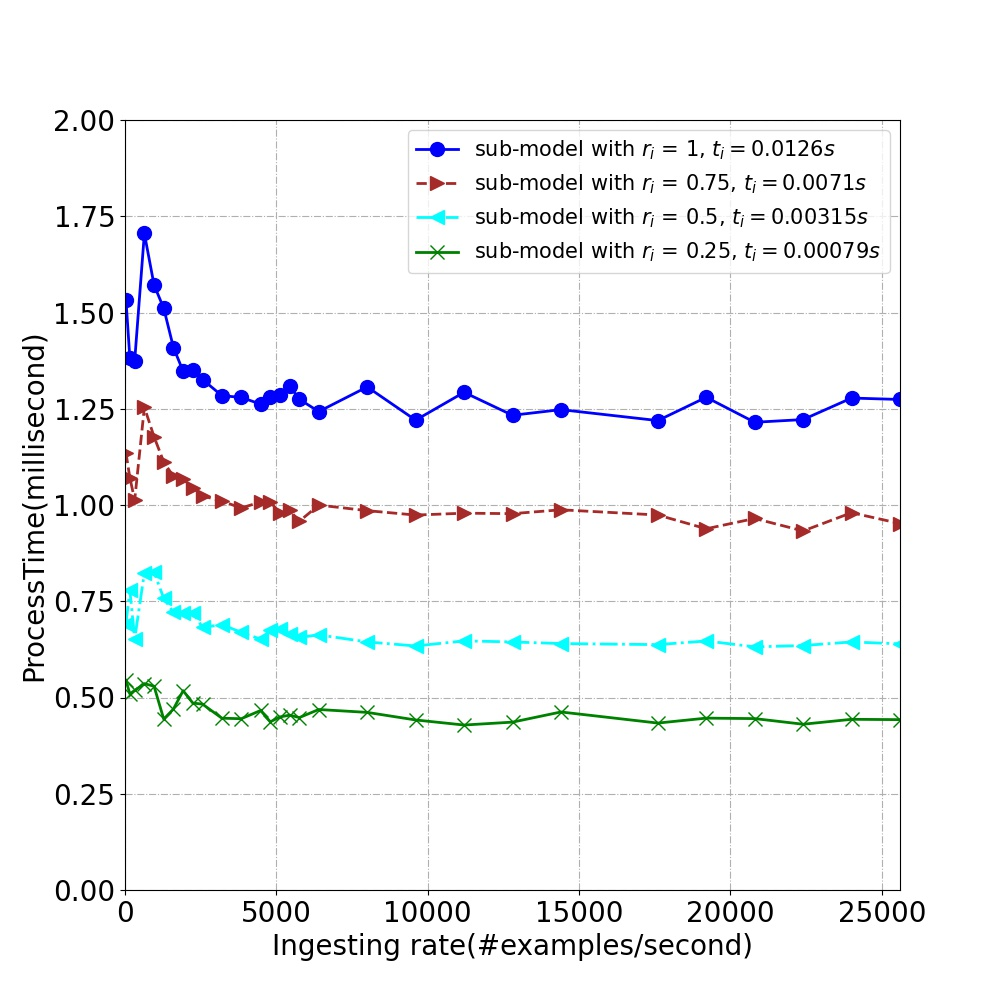
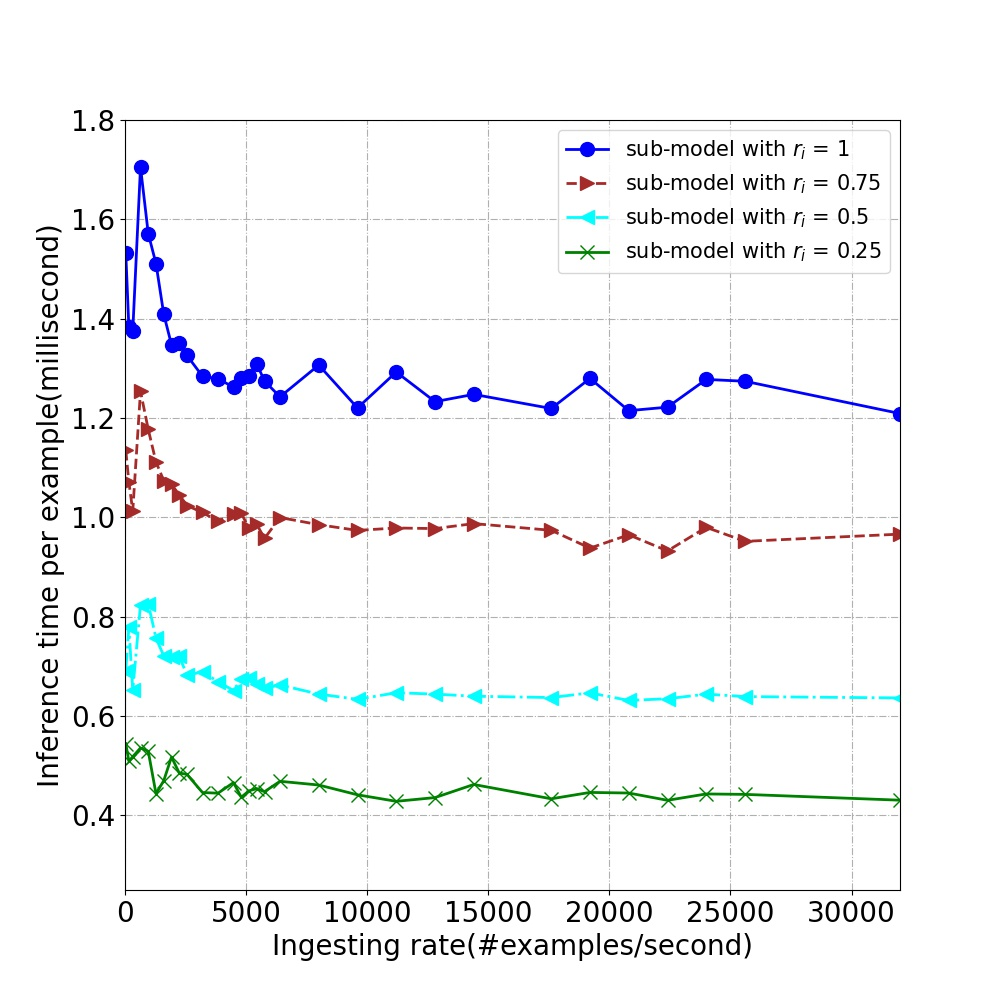
update col num

diff --git a/singa_easy/modules/mod_modelslicing/experiments/real_experiments/batchsize32_warmup/throughput_plot.py b/singa_easy/modules/mod_modelslicing/experiments/real_experiments/batchsize32_warmup/throughput_plot.py
@@ -1,9 +1,32 @@
-
-
-
+import random
 
 import matplotlib.pyplot as plt
 import numpy
+
+a = [1836.3079051506695, 1962.9089053282164, 1929.1277242268486, 1865.6451954263757, 1889.5975961861864,
+     2253.289056489142, 2127.1511393981114, 1931.6942465008278, 2059.462815456193, 2071.316841274074,
+     2241.006290635519, 2247.7630581564845, 2144.7499345363544, 2289.131959904238, 2224.434865066351,
+     2201.848473423833, 2232.70768279551, 2133.072624705612, 2167.6672935778574, 2264.275688170245,
+     2333.684488955261, 2293.424250948452, 2162.660721892865, 2306.332037993175, 2240.028933799633,
+     2246.2158555465144, 2322.4964900531186, 2255.5622859819355, 2259.9303076014894, 2321.2994099394336]
+b = [1445.9433825262615, 1284.6697085260785, 1533.4118854443375, 1213.9791096617307, 1210.7444482641636,
+     1320.5974070161312, 1386.553700460709, 1389.9838277791034, 1387.5661055279593, 1465.4537878707397,
+     1451.3130439734907, 1493.6634196280754, 1535.1549847755223, 1480.7069410017439, 1477.1197700353898,
+     1503.4791075969417, 1524.375786024539, 1509.0291880511877, 1551.8463361750817, 1577.706750904049,
+     1545.4427242402141, 1552.0039787885432, 1562.2637118262007, 1568.9310188763282, 1545.9267774841815,
+     1583.410716250229, 1574.791497162114, 1552.0990787287742, 1564.1273764910234, 1570.781902866197]
+c = [880.8678923087892, 933.6016809577615, 987.0748399898271, 797.5433414326412, 849.4834733220113,
+     899.6670416812997, 931.0417978411292, 937.6400711763063, 956.5925621638455, 976.7533568987499,
+     990.1121644661914, 1007.8173015409924, 992.2827579112727, 991.7698913691188, 1022.2715953452779,
+     1014.1038291456236, 1044.1256767843006, 1000.2139875635938, 1014.8825869643399, 1026.8363072048994,
+     1021.71904919371, 1022.9913952797449, 1012.5949577033209, 1026.6687747914898, 1065.8106918480396,
+     1036.3054170532707, 1072.269008082896, 1020.4068474632313, 1050.613453973618, 1034.795324812775]
+d = [652.5668608900327, 723.381195311305, 727.3728185252764, 586.3808688862862, 636.4126689846014,
+     661.8259209723692, 709.6993253544714, 742.0757436650908, 739.7638376353175, 754.1716642482755,
+     778.7620197152276, 781.6133029989561, 792.3596014105433, 780.290808002965, 778.2873606432582,
+     763.8202549455742, 784.5965844242094, 804.7131387530294, 765.2875261306747, 819.4191468756866,
+     773.5819920934922, 811.0019414343503, 801.4734417636259, 820.1707924206627, 781.3858588381479,
+     823.1135401337285, 818.3782593454359, 782.5908986499026, 784.8776116991418, 827.0613001214816]
 
 
 def drawBasic(tlist, x, slicerate):
@@ -12,30 +35,7 @@ def drawBasic(tlist, x, slicerate):
      label = []
      pots = []
 
-     a = [1836.3079051506695, 1962.9089053282164, 1929.1277242268486, 1865.6451954263757, 1889.5975961861864,
-          2253.289056489142, 2127.1511393981114, 1931.6942465008278, 2059.462815456193, 2071.316841274074,
-          2241.006290635519, 2247.7630581564845, 2144.7499345363544, 2289.131959904238, 2224.434865066351,
-          2201.848473423833, 2232.70768279551, 2133.072624705612, 2167.6672935778574, 2264.275688170245,
-          2333.684488955261, 2293.424250948452, 2162.660721892865, 2306.332037993175, 2240.028933799633,
-          2246.2158555465144, 2322.4964900531186, 2255.5622859819355, 2259.9303076014894, 2321.2994099394336]
-     b = [1445.9433825262615, 1284.6697085260785, 1533.4118854443375, 1213.9791096617307, 1210.7444482641636,
-          1320.5974070161312, 1386.553700460709, 1389.9838277791034, 1387.5661055279593, 1465.4537878707397,
-          1451.3130439734907, 1493.6634196280754, 1535.1549847755223, 1480.7069410017439, 1477.1197700353898,
-          1503.4791075969417, 1524.375786024539, 1509.0291880511877, 1551.8463361750817, 1577.706750904049,
-          1545.4427242402141, 1552.0039787885432, 1562.2637118262007, 1568.9310188763282, 1545.9267774841815,
-          1583.410716250229, 1574.791497162114, 1552.0990787287742, 1564.1273764910234, 1570.781902866197]
-     c = [880.8678923087892, 933.6016809577615, 987.0748399898271, 797.5433414326412, 849.4834733220113,
-          899.6670416812997, 931.0417978411292, 937.6400711763063, 956.5925621638455, 976.7533568987499,
-          990.1121644661914, 1007.8173015409924, 992.2827579112727, 991.7698913691188, 1022.2715953452779,
-          1014.1038291456236, 1044.1256767843006, 1000.2139875635938, 1014.8825869643399, 1026.8363072048994,
-          1021.71904919371, 1022.9913952797449, 1012.5949577033209, 1026.6687747914898, 1065.8106918480396,
-          1036.3054170532707, 1072.269008082896, 1020.4068474632313, 1050.613453973618, 1034.795324812775]
-     d = [652.5668608900327, 723.381195311305, 727.3728185252764, 586.3808688862862, 636.4126689846014,
-          661.8259209723692, 709.6993253544714, 742.0757436650908, 739.7638376353175, 754.1716642482755,
-          778.7620197152276, 781.6133029989561, 792.3596014105433, 780.290808002965, 778.2873606432582,
-          763.8202549455742, 784.5965844242094, 804.7131387530294, 765.2875261306747, 819.4191468756866,
-          773.5819920934922, 811.0019414343503, 801.4734417636259, 820.1707924206627, 781.3858588381479,
-          823.1135401337285, 818.3782593454359, 782.5908986499026, 784.8776116991418, 827.0613001214816]
+
      y.append(d)
      y.append(c)
      y.append(b)
@@ -43,7 +43,7 @@ def drawBasic(tlist, x, slicerate):
 
      for k in range(len(tlist)):
 
-          label.append('sub-model with $r_i$ = ' + str(slicerate[k]) + ", $t_i=$" + str(tlist[k]) + "$s$")
+          label.append('sub-model with $r_i$ = ' + str(slicerate[k]))
 
           tmp = []
           for i in range(len(x)):
@@ -55,14 +55,15 @@ def drawBasic(tlist, x, slicerate):
 
 
 x = [1, 5, 10, 20, 30, 40, 50, 60, 70, 80, 100, 120, 140, 150, 160, 170, 180, 200, 250, 300, 350, 400, 450, 550, 600, 650, 700, 750, 800, 1000]
-
+x = [ele*32 for ele in x]
+x = numpy.array(x)
 
 y, label, pots = drawBasic([0.0126, 0.0071, 0.00315, 0.00084], x, [1, 0.75, 0.5, 0.25])
 print(y)
 
 fig=plt.figure(figsize=(10, 10))
 ax=fig.add_subplot(111)
-ax.axis([0, 800, 0, 2500])
+ax.axis([0, 1000*32, 0, 2500])
 
 line_sym = ["-", "--", "-.", "-"]
 pot_sym = ["o", ">", "<", "x"]
@@ -71,8 +72,22 @@ colors = ['blue', 'brown', 'aqua', 'green']
 for i in range(len(y)):
      ax.plot(x, y[i], line_sym[i], marker=pot_sym[i], ms=10, label=label[i], linewidth=2, color=colors[i])
 
-# y_sche = [79.36507936507937, 79.36507936507937, 79.36507936507937, 79.36507936507937, 79.36507936507937, 79.36507936507937, 79.36507936507935, 100.12515644555694, 125.14078338130396, 150.02625459455405, 175.07440662281468, 200.1350911865509, 225.2083176938668, 250.04688379071075, 275.1203651597574, 300.20639189442744, 350.103280467738, 375.03187770960534, 400.18108193957767, 425.1030874987185, 450.01462547532793, 475.1900760304122, 500.0950180534302, 525.2928507643011, 600.3031530923116, 625.1844294066749, 650.0552546966492, 675.3055757730373, 700.1697911743597, 750.3001200480192, 800.4462487836969, 875.442098259621, 900.265578345612, 925.0786316836931, 950.4300696064969, 975.2364948500011, 1000.0325010562843, 1025.4101640656263, 1075.5996468030926, 1175.346727284549, 1190.4761904761904, 1190.4761904761904]
-# ax.plot(x, y_sche, "--", marker='*', ms=10, label="combination of sub-models", linewidth=2)
+y_sche = [709.2198581560284, 709.2198581560284, 709.2198581560284, 709.2198581560284, 709.2198581560284, 709.2198581560284, 709.2198581560283, 709.2198581560284, 709.2198581560284, 709.2198581560284, 709.2198581560283, 709.2198581560284, 709.2198581560284, 709.2198581560284, 709.2198581560284, 709.2198581560284, 720.0180004500112, 800.0100001250015, 1000.0250006250155, 1200.0450016875632, 1400.0017500021875, 1600.0240003600054, 1600.0240003600054, 2040.760203801019, 2040.760203801019, 2040.760203801019, 2040.760203801019, 2040.760203801019, 2040.760203801019, 2040.760203801019]
+
+y_sche1 = [d[i]-random.randrange(-50,30) if x[i]<200*32 else 0 for i in range(len(x))]
+y_sche2 = [y_sche[i] if x[i]>=200*32 and x[i]<400*32 else 0 for i in range(len(x))]
+
+y_sche3 = [b[i]-random.randrange(-50,50) if x[i]>=400*32 and x[i]<550*32 else 0 for i in range(len(x))]
+y_sche4 = [a[i]-random.randrange(-50,50) if x[i]>=550*32 else 0 for i in range(len(x))]
+
+y_sche1 = numpy.array(y_sche1)
+y_sche2 = numpy.array(y_sche2)
+y_sche3 = numpy.array(y_sche3)
+y_sche4 = numpy.array(y_sche4)
+
+y_schef = y_sche1+y_sche2+y_sche3+y_sche4
+y_schef[20] += 100
+ax.plot(x, y_schef, "--", marker='*', ms=15, label="combination of sub-models", linewidth=4)
 
 
 plt.legend(fontsize=15)

diff --git a/singa_easy/modules/mod_modelslicing/experiments/real_experiments/batchsize32_warmup/latency.py b/singa_easy/modules/mod_modelslicing/experiments/real_experiments/batchsize32_warmup/latency.py
@@ -5,7 +5,30 @@ from matplotlib.patches import Polygon
 import matplotlib.pyplot as plt
 import numpy as np
 
-
+a = [17.426271438598633, 81.51167869567871, 165.87807846069336, 343.0448627471924, 508.0446767807007,
+     568.0584993362427, 752.1797442436218, 993.9461193084717, 1087.6622695922852, 1235.9287333488464,
+     1427.929949760437, 1708.365117073059, 2088.8216047286987, 2096.8646998405457, 2301.7082138061523,
+     2470.651393890381, 2579.8271956443787, 3000.366666316986, 3690.603269100189, 4239.766407489777,
+     4799.27773141861, 5581.174087047577, 6658.464665412903, 7631.164858341217, 8571.317856788635,
+     9260.018332004547, 9644.793908596039, 10640.362338542938, 11327.782947063446, 13785.382386684418]
+b = [22.13088035583496, 124.5456314086914, 208.68496131896973, 527.1919384002686, 792.9006004333496,
+     969.2583017349243, 1153.9401607513428, 1381.31103515625, 1614.337501525879, 1746.8991661071777,
+     2204.8999099731445, 2570.8603086471558, 2918.2721252441406, 3241.694806098938, 3466.2050457000732,
+     3618.274422645569, 3778.5958375930786, 4241.137315750122, 5155.149587631226, 6084.780961036682,
+     7247.114256858826, 8247.401536941528, 9217.393895149231, 11217.82907485962, 12419.734414100647,
+     13136.200094223022, 14224.105248451233, 15462.930381774902, 16366.953474998474, 20372.01978302002]
+c = [36.32780838012695, 171.37929725646973, 324.1902103424072, 802.464225769043, 1130.0985012054443,
+     1422.7485733032227, 1718.5050163269043, 2047.694055557251, 2341.6448011398315, 2620.9277725219727,
+     3231.9570598602295, 3810.2144050598145, 4514.842129707336, 4839.832345962524, 5008.453744888306,
+     5364.342233657837, 5516.577293395996, 6398.630772590637, 7882.685251235962, 9349.104557991028,
+     10961.917572975159, 12512.324208259583, 14220.88851070404, 17142.821942329407, 18014.45617580414,
+     20071.302974700928, 20890.280173301697, 23520.03032875061, 24366.716324806213, 30923.98973274231]
+d = [49.0371208190918, 221.18352127075195, 439.939453125, 1091.4407920837402, 1508.4552001953125,
+     1934.0433177947998, 2254.4758644104004, 2587.336961746216, 3027.9933757781982, 3394.4526443481445,
+     4109.085855484009, 4912.915357589722, 5653.998502731323, 6151.552665710449, 6578.547023773193,
+     7122.094451904297, 7341.352376937866, 7953.14465713501, 10453.58734703064, 11715.61591720581,
+     14478.103309631348, 15782.946187973022, 17966.90850830078, 21458.94509124756, 24571.72699356079,
+     25269.903829574585, 27371.20609474182, 30667.36406135559, 32616.550170898438, 38691.20704269409]
 
 def drawBasic(tlist, x, slicerate):
 
@@ -13,30 +36,7 @@ def drawBasic(tlist, x, slicerate):
      label = []
      pots = []
 
-     a = [17.426271438598633, 81.51167869567871, 165.87807846069336, 343.0448627471924, 508.0446767807007,
-          568.0584993362427, 752.1797442436218, 993.9461193084717, 1087.6622695922852, 1235.9287333488464,
-          1427.929949760437, 1708.365117073059, 2088.8216047286987, 2096.8646998405457, 2301.7082138061523,
-          2470.651393890381, 2579.8271956443787, 3000.366666316986, 3690.603269100189, 4239.766407489777,
-          4799.27773141861, 5581.174087047577, 6658.464665412903, 7631.164858341217, 8571.317856788635,
-          9260.018332004547, 9644.793908596039, 10640.362338542938, 11327.782947063446, 13785.382386684418]
-     b = [22.13088035583496, 124.5456314086914, 208.68496131896973, 527.1919384002686, 792.9006004333496,
-          969.2583017349243, 1153.9401607513428, 1381.31103515625, 1614.337501525879, 1746.8991661071777,
-          2204.8999099731445, 2570.8603086471558, 2918.2721252441406, 3241.694806098938, 3466.2050457000732,
-          3618.274422645569, 3778.5958375930786, 4241.137315750122, 5155.149587631226, 6084.780961036682,
-          7247.114256858826, 8247.401536941528, 9217.393895149231, 11217.82907485962, 12419.734414100647,
-          13136.200094223022, 14224.105248451233, 15462.930381774902, 16366.953474998474, 20372.01978302002]
-     c = [36.32780838012695, 171.37929725646973, 324.1902103424072, 802.464225769043, 1130.0985012054443,
-          1422.7485733032227, 1718.5050163269043, 2047.694055557251, 2341.6448011398315, 2620.9277725219727,
-          3231.9570598602295, 3810.2144050598145, 4514.842129707336, 4839.832345962524, 5008.453744888306,
-          5364.342233657837, 5516.577293395996, 6398.630772590637, 7882.685251235962, 9349.104557991028,
-          10961.917572975159, 12512.324208259583, 14220.88851070404, 17142.821942329407, 18014.45617580414,
-          20071.302974700928, 20890.280173301697, 23520.03032875061, 24366.716324806213, 30923.98973274231]
-     d = [49.0371208190918, 221.18352127075195, 439.939453125, 1091.4407920837402, 1508.4552001953125,
-          1934.0433177947998, 2254.4758644104004, 2587.336961746216, 3027.9933757781982, 3394.4526443481445,
-          4109.085855484009, 4912.915357589722, 5653.998502731323, 6151.552665710449, 6578.547023773193,
-          7122.094451904297, 7341.352376937866, 7953.14465713501, 10453.58734703064, 11715.61591720581,
-          14478.103309631348, 15782.946187973022, 17966.90850830078, 21458.94509124756, 24571.72699356079,
-          25269.903829574585, 27371.20609474182, 30667.36406135559, 32616.550170898438, 38691.20704269409]
+
      y.append(d)
      y.append(c)
      y.append(b)
@@ -44,7 +44,7 @@ def drawBasic(tlist, x, slicerate):
 
      for k in range(len(tlist)):
 
-          label.append('sub-model with $r_i$ = ' + str(slicerate[k]) + ", $t_i=$" + str(tlist[k]) + "$s$")
+          label.append('sub-model with $r_i$ = ' + str(slicerate[k]))
 
           tmp = []
           for i in range(len(x)):
@@ -64,7 +64,7 @@ y, label, pots = drawBasic([0.00141, 0.00110, 0.00071, 0.00049], x, [1, 0.75, 0.
 
 fig=plt.figure(figsize=(10, 10))
 ax=fig.add_subplot(111)
-ax.axis([0, 800*32, 0, 20])
+ax.axis([0, 1000*32, 0, 20])
 
 line_sym = ["-", "--", "-.", "-"]
 pot_sym = ["o", ">", "<", "x"]
@@ -74,11 +74,14 @@ for i in range(len(y)):
      ax.plot(x, y_i, line_sym[i], marker=pot_sym[i], ms=10, label=label[i], linewidth=2,  color=colors[i])
 
 
-ysch = [0.04512, 0.2256, 0.4512, 0.9024, 1.3536, 1.8048, 2.2560000000000002, 2.7072, 3.1584, 3.6096, 4.5120000000000005, 5.4144, 6.3168, 6.768, 7.2192, 7.6704, 7.9998000000000005, 7.9999, 7.9998000000000005, 7.999700000000001, 7.99999, 7.99988, 7.99988, 8.62422, 9.40822, 10.192219999999999, 10.97622, 11.76022, 12.54422, 15.680219999999998]
-ysch = [ysch[i]-1 if (x[i]>17900) else ysch[i] for i in range(len(x))]
-ax.plot(x, ysch,"--", marker='*', ms=10, label="combine of sub-models", linewidth=2)
+ysch = [0.04512, 0.2256, 0.4512, 0.9024, 1.3536, 1.8048, 2.2560000000000002, 2.7072, 3.1584, 3.6096, 4.5120000000000005, 5.4144, 6.3168, 6.768, 7.2192, 7.6704, 7.9998000000000005, 7.9999, 7.9998000000000005, 7.999700000000001, 7.99999, 7.99988, 7.99988,  7.9999, 9.40822, 10.192219999999999, 10.97622, 11.76022, 12.54422, 15.680219999999998]
+ysch = [a[i]/1000+random.randrange(-5, 5)*0.1 if (x[i]>17900) else ysch[i] for i in range(len(x))]
 
-plt.hlines(8.1, 0, 25000, label="deadline constrain=1s", linewidth=4, color="red")
+# ax.plot(x, ysch,"--", marker='*', ms=10, label="combination of sub-models", linewidth=2)
+ax.plot(x, ysch, "--", marker='*', ms=15, label="combination of sub-models", linewidth=4)
+
+
+plt.hlines(8.1, 0, 85000, label="deadline constrain=8s", linewidth=4, color="red")
 #
 plt.legend(fontsize=15)
 plt.xticks(fontsize=20)

diff --git a/singa_easy/modules/mod_modelslicing/experiments/real_experiments/batchsize32_warmup/submodel_propertion.py b/singa_easy/modules/mod_modelslicing/experiments/real_experiments/batchsize32_warmup/submodel_propertion.py
@@ -1,0 +1,50 @@
+# -*- coding: utf-8 -*-
+import matplotlib.pyplot as plt
+
+
+scheduler_map = \
+    {32: [32, 0, 0, 0], 160: [160, 0, 0, 0], 320: [320, 0, 0, 0], 640: [640, 0, 0, 0], 960: [960, 0, 0, 0],
+     1280: [1280, 0, 0, 0], 1600: [1600, 0, 0, 0], 1920: [1920, 0, 0, 0], 2240: [2240, 0, 0, 0], 2560: [2560, 0, 0, 0],
+     3200: [3200, 0, 0, 0], 3840: [3840, 0, 0, 0], 4480: [4480, 0, 0, 0], 4800: [4800, 0, 0, 0], 5120: [5120, 0, 0, 0],
+     5440: [5440, 0, 0, 0], 5760: [5586, 0, 174, 0], 6400: [4937, 0, 1463, 0], 8000: [3314, 0, 4686, 0],
+     9600: [1691, 0, 7909, 0], 11200: [68, 1, 11131, 0], 12800: [0, 0, 7854, 4946], 17600: [0, 0, 1, 16325],
+     19200: [0, 0, 1, 16325]}
+
+
+name_list = list(scheduler_map.keys()).sort()
+# name_list = [32, 3200, 9600, 19200, 25600]
+
+
+fig = plt.figure(figsize=(11, 10))
+ax = fig.add_subplot(111)
+ax.axis([0, len(list(scheduler_map.keys())), 0, 17500])
+
+y025 = []
+y5 = []
+y75 = []
+y100 = []
+
+for key in scheduler_map:
+    y025.append(scheduler_map[key][3])
+    y5.append(scheduler_map[key][2])
+    y75.append(scheduler_map[key][1])
+    y100.append(scheduler_map[key][0])
+
+
+colors = ['lightskyblue', 'brown', 'aqua', 'plum']
+ax.bar(range(len(y100)), y100, label='sub-model with $r_i$ = 1', tick_label=name_list, fc=colors[0])
+ax.bar(range(len(y75)), y75, bottom=y100, label='sub-model with $r_i$ = 0.75', tick_label=name_list, fc=colors[1])
+ax.bar(range(len(y5)), y5, bottom=y75, label='sub-model with $r_i$ = 0.5', tick_label=name_list, fc=colors[2])
+ax.bar(range(len(y025)), y025, bottom=y5, label='sub-model with $r_i$ = 0.25', fc=colors[3])
+
+
+plt.legend(fontsize=20)
+plt.xticks(fontsize=20)
+plt.yticks(fontsize=20)
+
+ax.set_xlabel('Ingesting rate(#examples/second)', fontsize=20)
+ax.set_ylabel('#Examples', fontsize=20)
+
+plt.grid(linestyle='-.')
+plt.savefig('./sub_model_proportion.jpg')
+plt.show()

diff --git a/singa_easy/modules/mod_modelslicing/experiments/real_experiments/batchsize32_warmup/average_time.py b/singa_easy/modules/mod_modelslicing/experiments/real_experiments/batchsize32_warmup/average_time.py
@@ -44,7 +44,7 @@ def drawBasic(tlist, x, slicerate):
 
      for k in range(len(tlist)):
 
-          label.append('sub-model with $r_i$ = ' + str(slicerate[k]) + ", $t_i=$" + str(tlist[k]) + "$s$")
+          label.append('sub-model with $r_i$ = ' + str(slicerate[k]))
 
           tmp = []
           for i in range(len(x)):
@@ -59,12 +59,12 @@ import numpy
 x = [1, 5, 10, 20, 30, 40, 50, 60, 70, 80, 100, 120, 140, 150, 160, 170, 180, 200, 250, 300, 350, 400, 450, 550, 600, 650, 700, 750, 800, 1000]
 x = numpy.array(x)
 x = [ele*32 for ele in x]
-y, label, pots = drawBasic([0.0126, 0.0071, 0.00315, 0.00079], x, [1, 0.75, 0.5, 0.25])
+y, label, pots = drawBasic([0.00141, 0.00110, 0.00071, 0.00049], x, [1, 0.75, 0.5, 0.25])
 
 
 fig=plt.figure(figsize=(10, 10))
 ax=fig.add_subplot(111)
-ax.axis([0, 800*32, 0, 2])
+ax.axis([0, 1000*32, 0.25, 1.8])
 
 line_sym = ["-", "--", "-.", "-"]
 pot_sym = ["o", ">", "<", "x"]
@@ -78,7 +78,7 @@ plt.legend(fontsize=15)
 plt.xticks(fontsize=20)
 plt.yticks(fontsize=20)
 ax.set_xlabel('Ingesting rate(#examples/second)', fontsize=20)
-ax.set_ylabel('ProcessTime(millisecond)', fontsize=20)
+ax.set_ylabel('Inference time per example(millisecond)', fontsize=20)
 plt.grid(linestyle='-.')
 plt.savefig('./average_time.jpg')
 plt.show()
